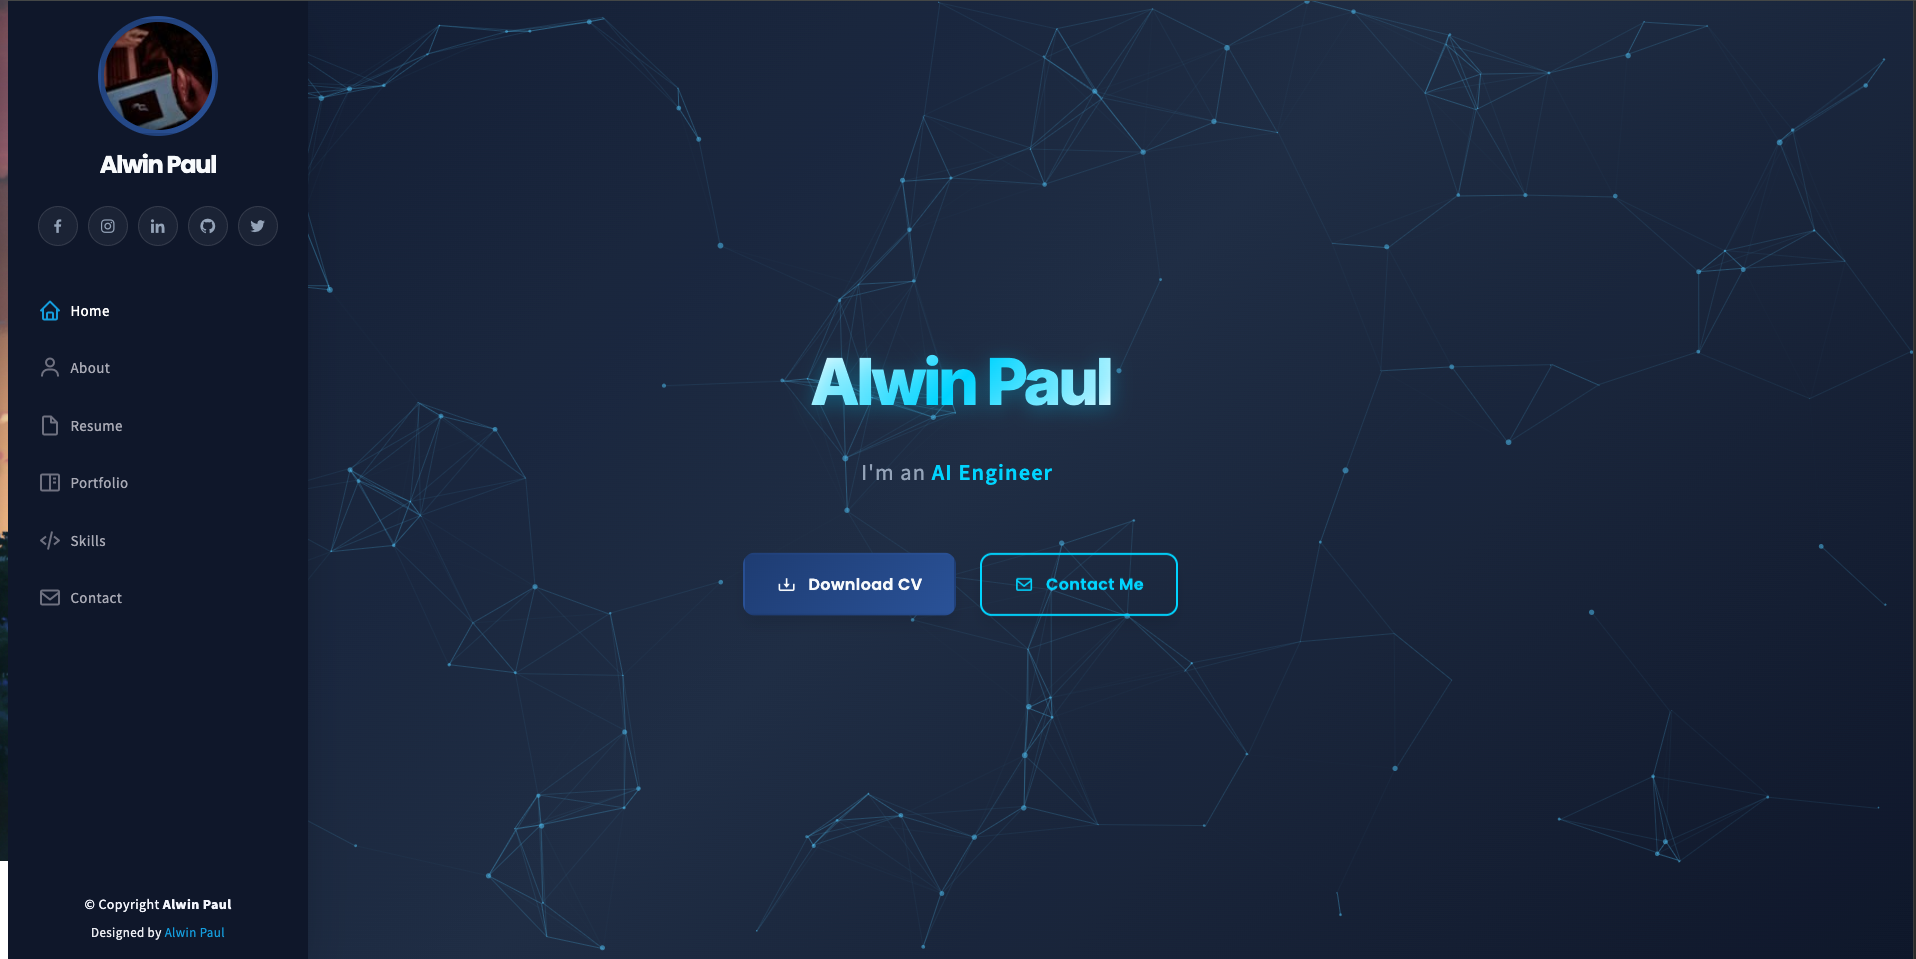
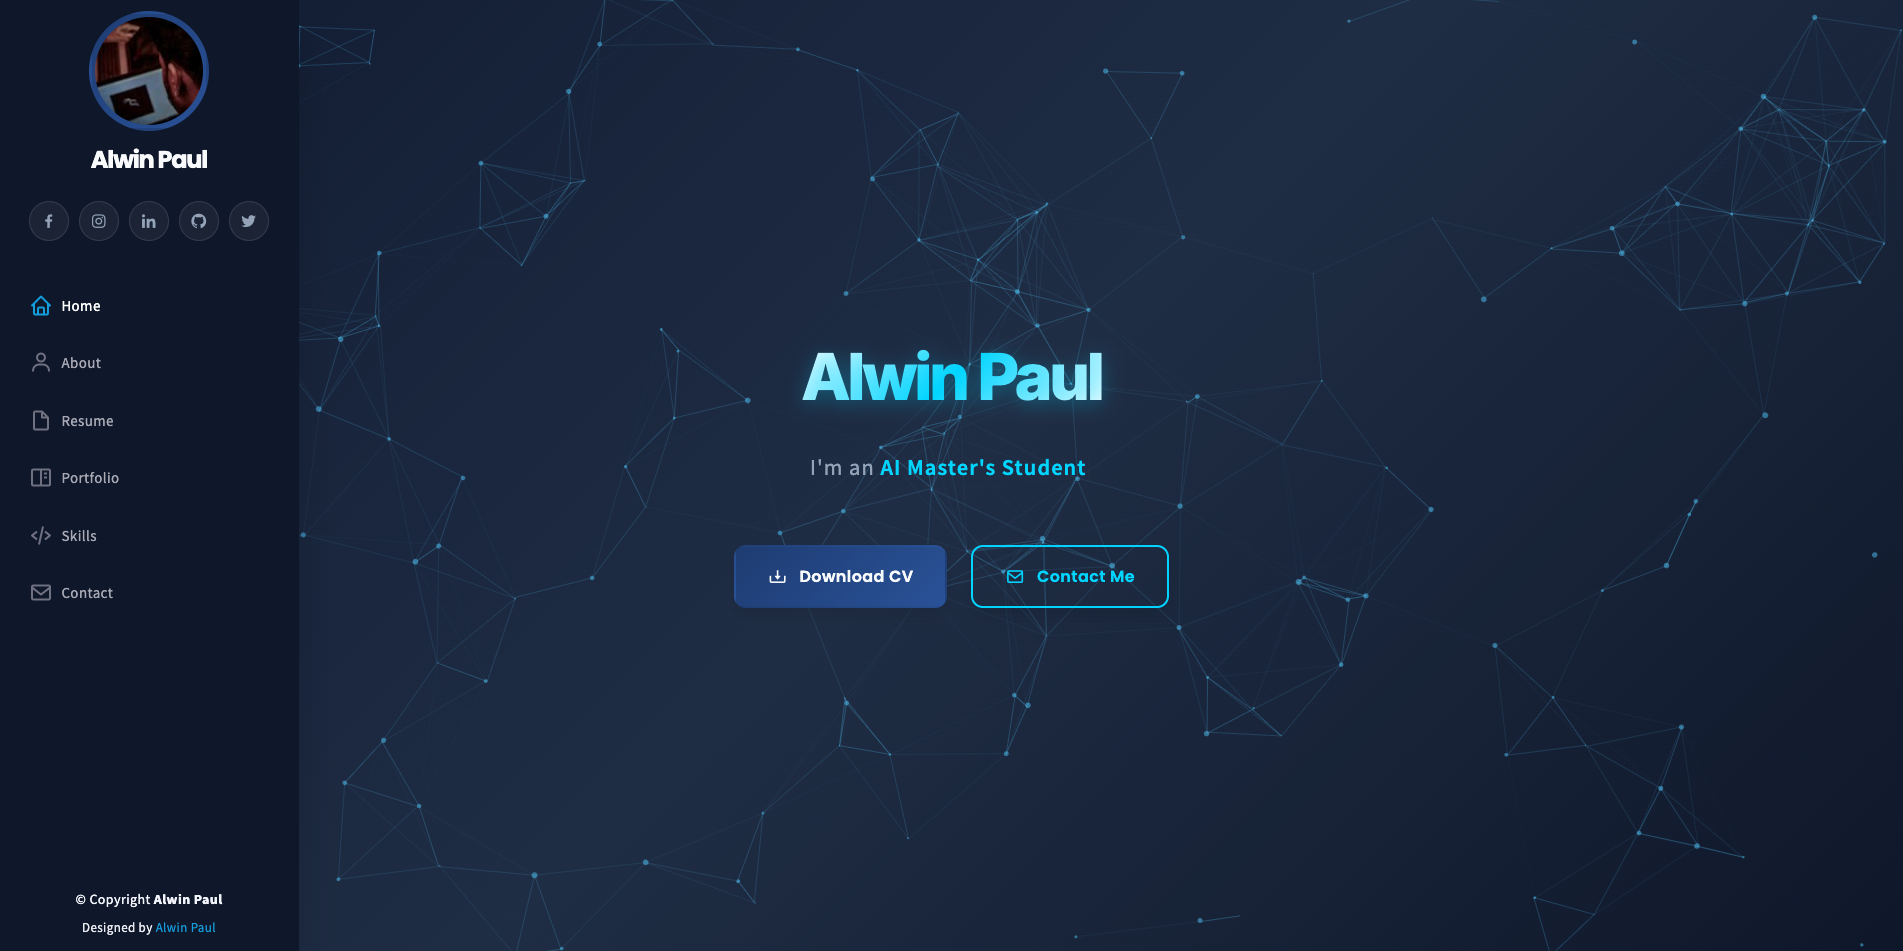
Update portfolio images and simplify README

diff --git a/README.md b/README.md
@@ -1,20 +1,20 @@
-# [Portfolio](https://alwinpaul.me/)
+# Portfolio Website
 
-My Website Portfolio
+My personal portfolio website showcasing AI and Machine Learning projects.
 
-# Screenshots:
+**Live Site:** [alwinpaul.me](https://alwinpaul.me/)
 
-## Desktop View
+## Screenshots
 
-![Portfolio.jpg](https://github.com/nullpwn/alwinpaul/blob/main/Portfolio.jpg)
+### Desktop View
+![Portfolio Desktop](Portfolio.jpg)
 
-## Mobile View
+### Mobile View
+![Portfolio Mobile](Portfolio_Mobile.jpg)
 
-![Portfolio_Mobile.jpg](https://github.com/nullpwn/alwinpaul/blob/main/Portfolio_Mobile.jpg)
-
-# Author
-
-*[Alwin Paul](https://www.linkedin.com/in/alwin-paul/)*
+## Author
+**Alwin Paul** - AI Master's Student  
+[LinkedIn](https://www.linkedin.com/in/alwin-paul/) | [GitHub](https://github.com/alwinpaul1)
 
 
 
